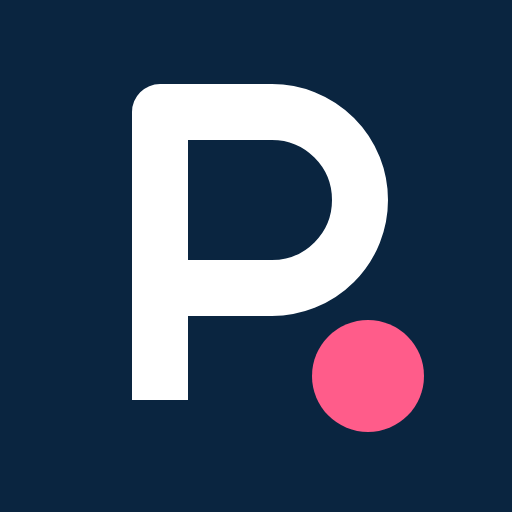
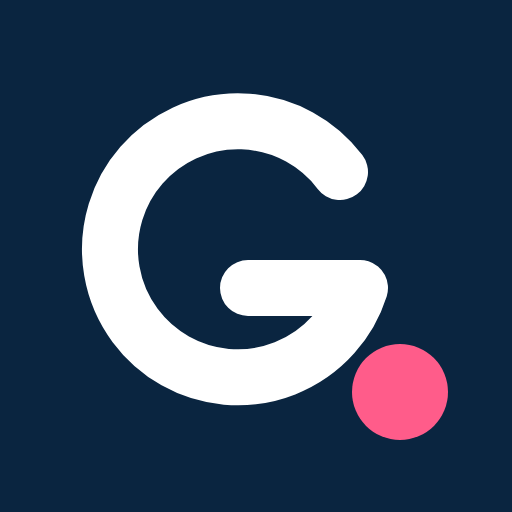
Byt namn till Gearwise
Claude-Session: https://claude.ai/code/session_01PWCRNyN5Gw2iUxzJTn79ar

Changed region(s): [[0.1562, 0.1562, 0.875, 0.875]]

diff --git a/src/app.js b/src/app.js
@@ -1,4 +1,4 @@
-// Prylkollen – klientskript (delas av alla sidor). Inga beroenden.
+// Gearwise – klientskript (delas av alla sidor). Inga beroenden.
 (() => {
   const $ = (s, r = document) => r.querySelector(s);
   const $$ = (s, r = document) => [...r.querySelectorAll(s)];
@@ -8,8 +8,8 @@
 
   const load = (k) => { try { return JSON.parse(localStorage.getItem(k) || '[]'); } catch { return []; } };
   const save = (k, v) => { try { localStorage.setItem(k, JSON.stringify(v)); } catch {} };
-  let favs = load('pk-favs').filter((x) => typeof x === 'string');
-  let cmp = load('pk-cmp').filter((x) => typeof x === 'string').slice(0, MAX_CMP);
+  let favs = load('gw-favs').filter((x) => typeof x === 'string');
+  let cmp = load('gw-cmp').filter((x) => typeof x === 'string').slice(0, MAX_CMP);
 
   // ---------- Priser: visa bara om de är yngre än 24 h (Amazons krav) ----------
   function expirePrices() {
@@ -31,7 +31,7 @@
   }
   function toggleFav(slug) {
     favs = favs.includes(slug) ? favs.filter((x) => x !== slug) : [...favs, slug];
-    save('pk-favs', favs); syncFavs(); if (shop) shop.render();
+    save('gw-favs', favs); syncFavs(); if (shop) shop.render();
   }
 
   // ---------- Jämförelse ----------
@@ -53,10 +53,10 @@
     if (cmp.includes(slug)) cmp = cmp.filter((x) => x !== slug);
     else if (cmp.length >= MAX_CMP) { alert(`Du kan jämföra högst ${MAX_CMP} prylar. Ta bort någon först.`); return; }
     else cmp = [...cmp, slug];
-    save('pk-cmp', cmp); syncCmp();
+    save('gw-cmp', cmp); syncCmp();
     if (document.body.dataset.page === 'jamfor') renderCompare();
   }
-  bar && $('button', bar).addEventListener('click', () => { cmp = []; save('pk-cmp', cmp); syncCmp(); });
+  bar && $('button', bar).addEventListener('click', () => { cmp = []; save('gw-cmp', cmp); syncCmp(); });
 
   document.addEventListener('click', (e) => {
     const f = e.target.closest('[data-fav]'); if (f) { e.preventDefault(); toggleFav(f.dataset.fav); return; }
@@ -115,7 +115,7 @@
     if (fromUrl && !renderCompare.used) {
       renderCompare.used = true;
       cmp = fromUrl.split(',').filter((s) => data.products.some((p) => p.slug === s)).slice(0, MAX_CMP);
-      save('pk-cmp', cmp);
+      save('gw-cmp', cmp);
     }
     const u = new URL(location.href); cmp.length ? u.searchParams.set('p', cmp.join(',')) : u.searchParams.delete('p');
     history.replaceState(null, '', u);

diff --git a/README.md b/README.md
@@ -1,4 +1,4 @@
-# Prylkollen – affiliate-sajt för teknik & gadgets
+# Gearwise – affiliate-sajt för teknik & gadgets
 
 En statisk sajt där varje produkt länkar till Amazon.se med affiliatelänk. Amazon sköter betalning, leverans, returer och kundservice; sajten tjänar provision via Amazon Associates.
 
@@ -72,7 +72,7 @@ Formatet för anropen kommer från Amazons officiella SDK, `creatorsapi-python-s
 | Pris bara från API:t | Priser visas bara om de kommer från API:t. Tidpunkten står bredvid, och under **Prisinfo** finns Amazons standardtext på svenska. |
 | Max 24 timmar gammal data | API-data som är äldre än 24 timmar används inte vid bygget. Webbläsaren tar dessutom bort priser som har blivit äldre än 24 timmar på en sida som legat kvar. |
 | Inga kopierade bilder | Bilder visas direkt från Amazons servrar och kopieras aldrig. |
-| Obligatorisk partnertext | Texten "Som Amazon-partner tjänar Prylkollen på kvalificerade köp" finns i sidfoten på varje sida. |
+| Obligatorisk partnertext | Texten "Som Amazon-partner tjänar Gearwise på kvalificerade köp" finns i sidfoten på varje sida. |
 | Länkattribut | Alla Amazon-länkar har `rel="nofollow sponsored noopener"`. Testerna kontrollerar det. |
 
 Tills API-åtkomst finns fungerar sajten utan priser. Knapparna leder då till en sökning på Amazon, och de ritade ikonerna visas i stället för bilder.
@@ -101,9 +101,9 @@ Byggkommandot är `npm run build` och publiceringsmappen `dist`. `netlify.toml` 
 
 Bygget varnar för det som saknas.
 
-- [ ] `partnerTag` är ditt eget Associates-ID (exemplet `prylkollen-21` är kvar).
+- [ ] `partnerTag` är ditt eget Associates-ID (exemplet `gearwise-21` är kvar).
 - [ ] `owner` (och eventuellt `ownerOrgNr`) är ifyllt, eftersom integritetspolicyn måste ange personuppgiftsansvarig.
-- [ ] `contactEmail` är en adress som fungerar (`hej@prylkollen.se` är en platshållare).
+- [ ] `contactEmail` är en adress som fungerar (`hej@gearwise.se` är en platshållare).
 - [ ] `hosting` matchar ditt webbhotell, och `policyUpdated` är satt.
 - [ ] `url` är rätt domän (används i canonical, sitemap och Open Graph).
 - [ ] Läs igenom integritetspolicyn och cookiesidan. De är skrivna utifrån hur sajten fungerar, men är ingen juridisk granskning.
